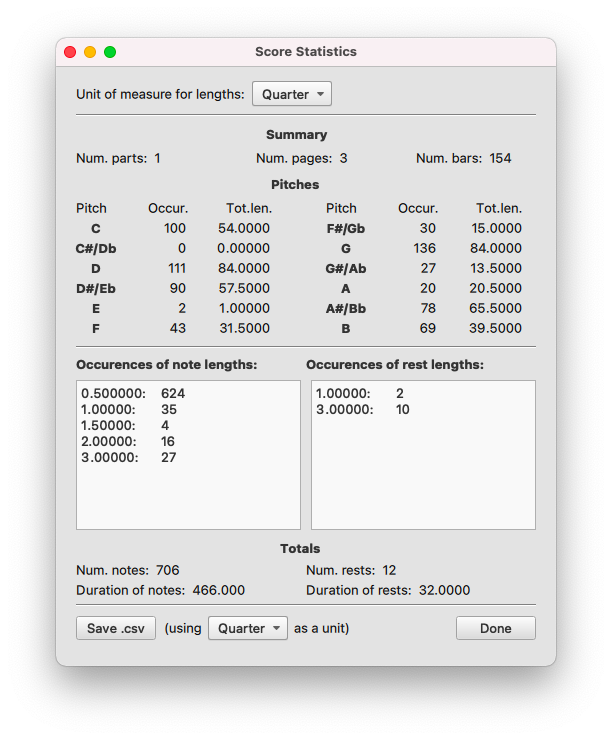
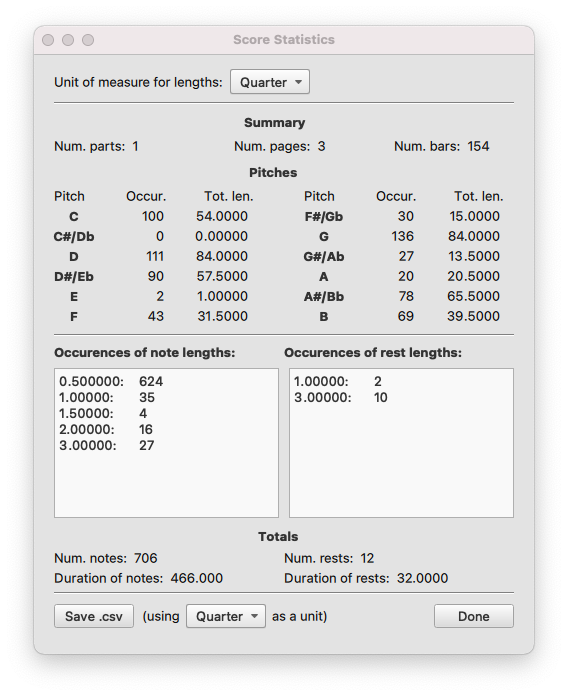
Tot. len.

diff --git a/ScoreStatistics.qml b/ScoreStatistics.qml
@@ -919,7 +919,8 @@ pitch   tpc name    tpc name    tpc name
         Text {
             x: 170
             y: 134
-            text: qsTr("Tot. len.")
+            textFormat: Text.StyledText
+            text: qsTr("Tot.&nbsp;len.")
         }
         
         ///////////
@@ -938,7 +939,8 @@ pitch   tpc name    tpc name    tpc name
         Text {
             x: 420
             y: 134
-            text: qsTr("Tot. len.")
+            textFormat: Text.StyledText
+            text: qsTr("Tot.&nbsp;len.")
         }     
         
         ///////////
